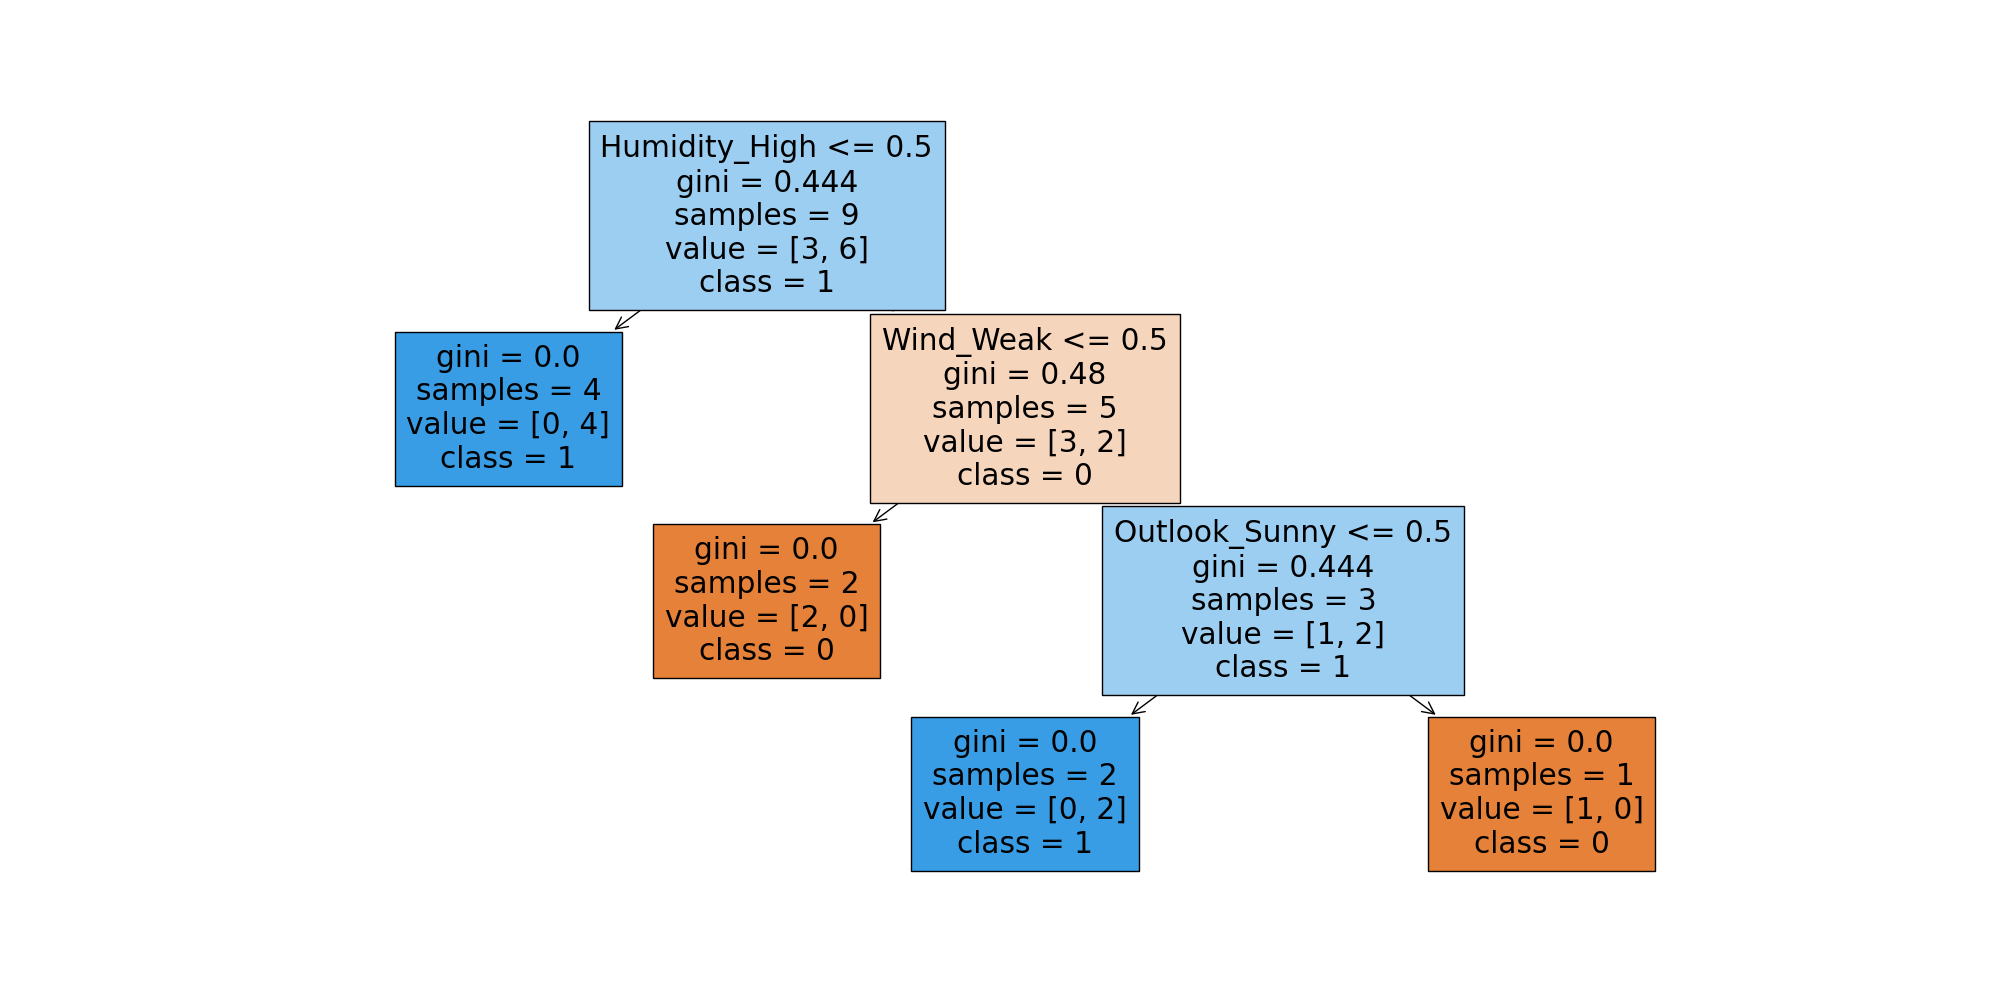
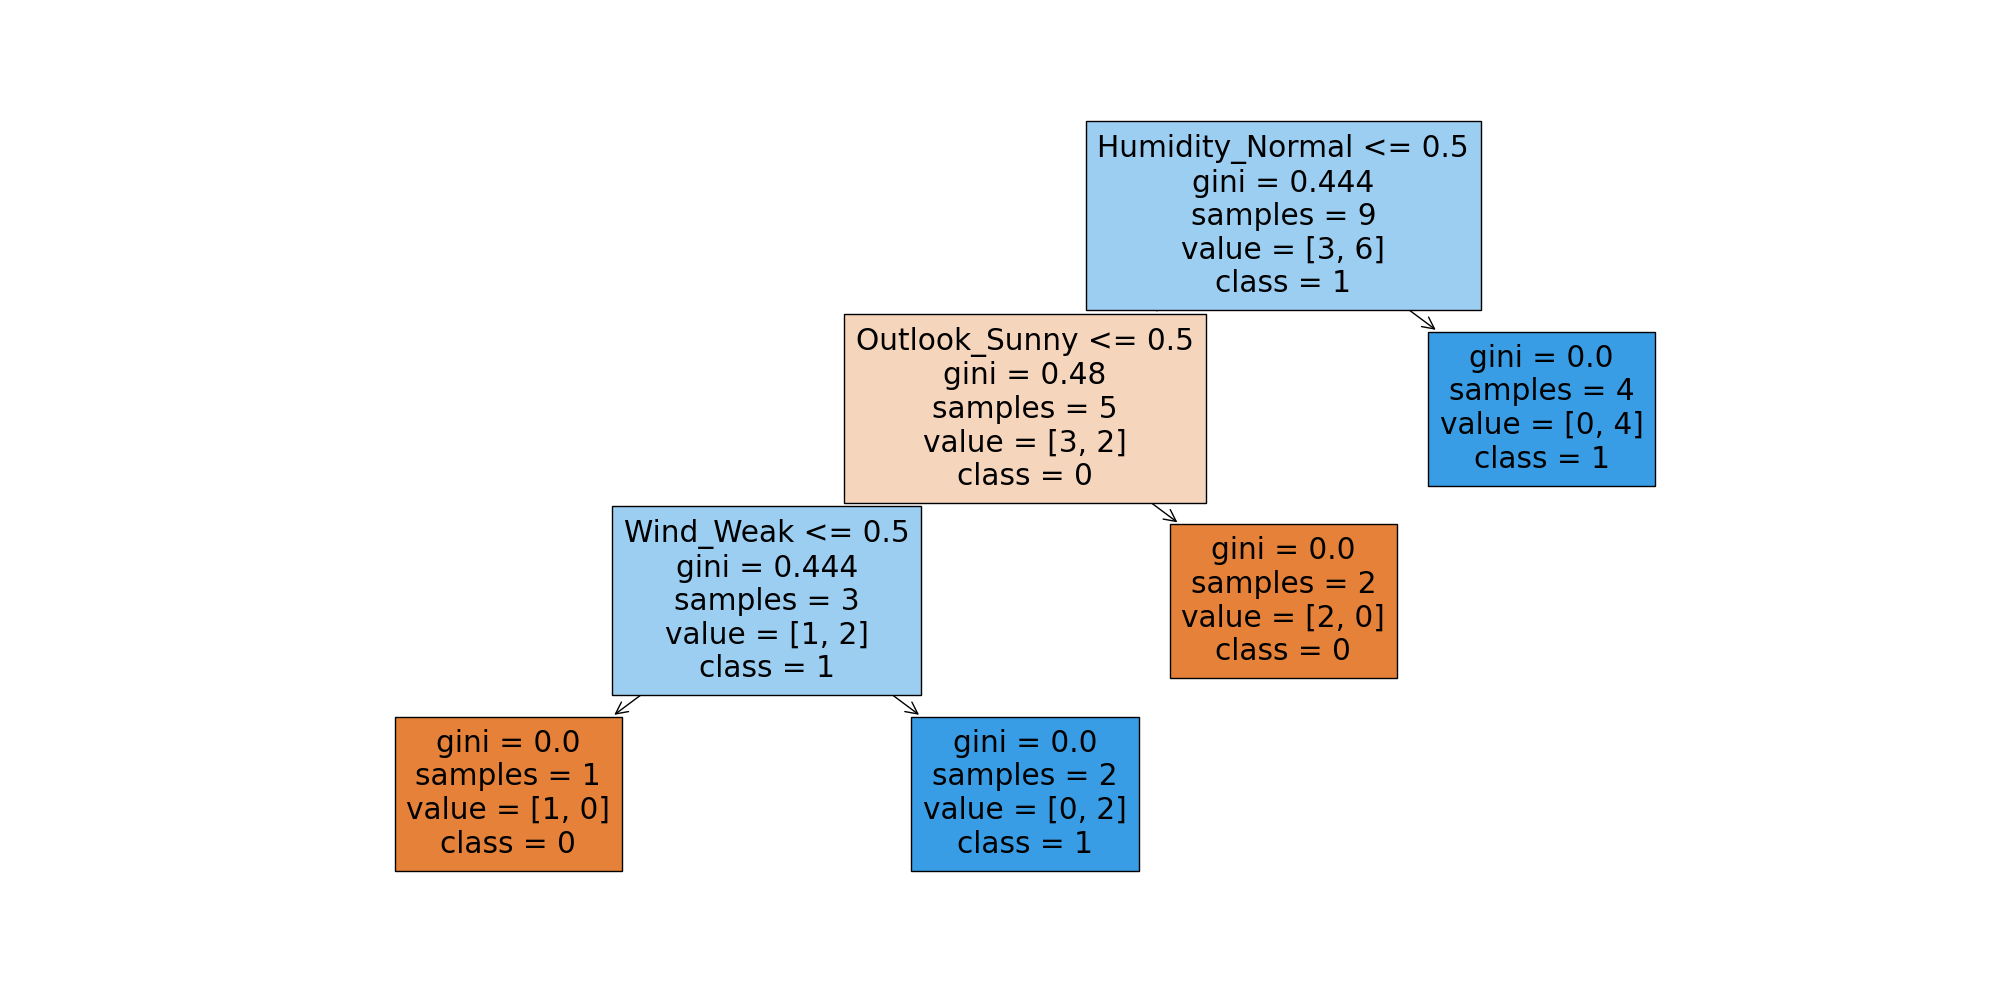
La imagen y el  nombre del archivo se cargan correctamente en la pagina

Changed region(s): [[0.186, 0.093, 0.837, 0.899], [0.186, 0.713, 0.31, 0.899]]

diff --git a/scikittyWeb/paginaIA/templates/model_details.html b/scikittyWeb/paginaIA/templates/model_details.html
@@ -1,0 +1,37 @@
+{% load static %}
+
+<!DOCTYPE html>
+<html lang="en">
+<head>
+    <meta charset="UTF-8">
+    <meta name="viewport" content="width=device-width, initial-scale=1.0">
+    <title>SciKitty - Binario-Binario</title>
+    <link rel="stylesheet" href="{% static '/css/styles.css' %}">
+    <link rel="stylesheet" href="{% static '/css/binario.css' %}">
+</head>
+<body>
+    {% include 'header.html' %}
+    <main>
+        {% include 'menu.html' %}
+        <div id="content">
+            <h2 class="nombreArchivo">Detalles del modelo para {{ model_name }}</h2>
+            <div class="detail_buttons">
+                <form>
+                    <button class="buttonCargar" id="metricas" type="submit">Metricas</button>
+                </form>
+                <form>
+                    <button class="buttonCargar"id="ROC" type="submit">ROC</button>
+                </form>
+                <form method="post" action="{% url 'get_image_tree' %}" enctype="multipart/form-data">
+                    {% csrf_token %}
+                    <input type="hidden" name='model_name' value="{{model_name}}">
+                    <button class="buttonCargar" id="tree" type="submit">Tree</button>
+                </form>
+                
+            </div>
+            <div id="model_details" >
+                <img class="tree_image" src={{detail}}>
+            </div>
+        </div>
+</body>
+</html>

diff --git a/scikittyWeb/paginaIA/static/css/styles.css b/scikittyWeb/paginaIA/static/css/styles.css
@@ -270,8 +270,11 @@ button {
     margin-bottom: 45px;
 }
   
+.detail_buttons form{
+    display: inline-block;
+}
 
-
-
-
+.tree_image{
+    width: 120vh;
+}
 

diff --git a/scikittyWeb/paginaIA/views.py b/scikittyWeb/paginaIA/views.py
@@ -1,3 +1,4 @@
+from django.http import HttpResponseRedirect
 import requests
 
 from django.shortcuts import render
@@ -8,6 +9,9 @@ def home(request):
 
 def binario_binario(request):
     return render(request, 'binario_binario.html')
+
+def model_details(request, model_name):
+    return render(request, 'model_details.html',{'model_name': model_name})
 
 def cargar_csv(request):
     if request.method == 'POST':
@@ -27,25 +31,27 @@ def cargar_csv(request):
 
         # Verificar el estado de la respuesta
         if respuesta.status_code == 200:
-            mensaje = "El archivo se ha enviado correctamente al servidor remoto."
+            return HttpResponseRedirect(f'/model_details/{nombre_archivo}')
         else:
             mensaje = "Hubo un error al enviar el archivo al servidor remoto."
 
         return render(request, 'binario_binario.html', {'mensaje': mensaje})
 
-    return render(request, 'binario_binario.html')#TODO render a new page
-
 def get_image_tree(request):
-    if request.method == 'GET':
+    if request.method == 'POST':
 
-        # URL del servidor remoto
+        form_model_name = request.POST['model_name']
+
+        archivo_csv = {'model_name':form_model_name}
+
         url = 'http://127.0.0.1:8001/image_tree'
 
         # Hacer la solicitud POST al servidor remoto con el archivo adjunto
-        response = requests.get(url)
+        response = requests.post(url, data=archivo_csv)
 
-        # Verificar el estado de la respuesta
-        with open('./paginaIA/static/images/tree_image.png', 'wb') as f:
+        path = './paginaIA/static/images/tree_image.png'
+        with open(path, 'wb') as f:
             f.write(response.content)
+        read_path = "/static/images/tree_image.png"
 
-    return render(request, 'binario_binario.html')#TODO render a new page
+    return render(request, 'model_details.html',{'detail': read_path,'model_name': form_model_name})

diff --git a/scikittyWeb/scikittyWeb/urls.py b/scikittyWeb/scikittyWeb/urls.py
@@ -21,6 +21,7 @@ from paginaIA import views
 urlpatterns = [
     path('admin/', admin.site.urls),
     path('', views.home, name='home'),
+    path('model_details/<str:model_name>/', views.model_details, name='model_details'),
     path('binario_binario/', views.binario_binario, name='binario_binario'),
     path('cargar_csv/', views.cargar_csv, name='cargar_csv'),
     path('get_image_tree/', views.get_image_tree, name='get_image_tree'),

diff --git a/SERVER_python/scikitty_server.py b/SERVER_python/scikitty_server.py
@@ -16,10 +16,11 @@ def analizar_csv():
 
     return "Archivo CSV recibido y procesado correctamente"
 
-@app.route('/image_tree', methods=['GET'])
+@app.route('/image_tree', methods=['POST'])
 def image_tree():
+    data = request.form['model_name']
 
-    df = sk.read_csv('playTennis.csv')
+    df = sk.read_csv(data)
     X,y = sk.getX_Y(df)
     X_train, X_test, y_train, y_test = sk.splitX_Y(X,y)
 
